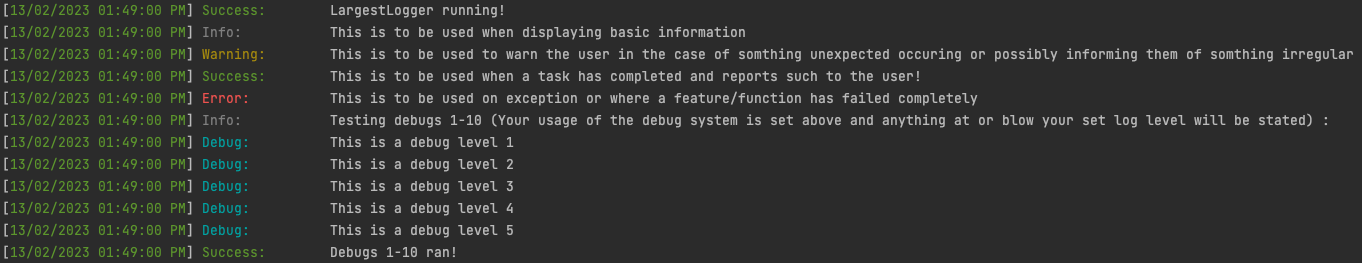
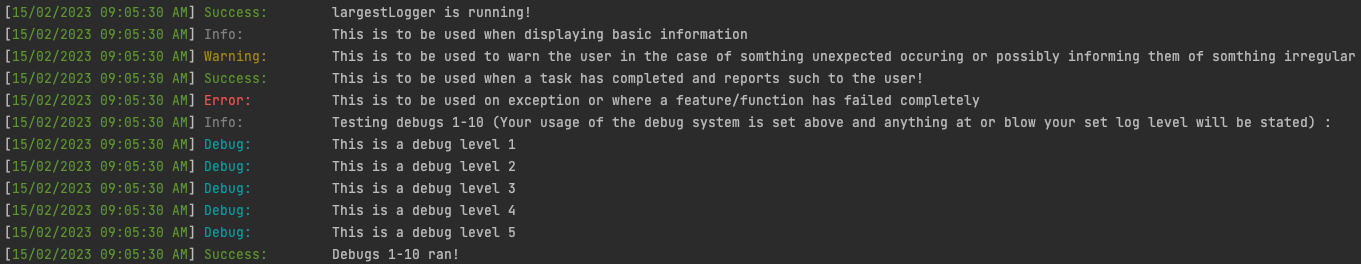
Changed to camelCase and updated PyPi link. Also added a command to easily update

diff --git a/largestLoggerPackage/largestLogger/largestLogger.py b/largestLoggerPackage/largestLogger/largestLogger.py
@@ -1,0 +1,92 @@
+#Importing all required modules/librarys
+import os, shutil, colorama
+from datetime import datetime
+from colorama import Fore, Style
+#Creating containing class
+class largestLogger:
+    #Creating variable to store the current directory where logs will be stored
+    logDir = None
+    #Creating variables to be used in the debug scope
+    debugMode = None
+    debugValue = None
+    #Function to clean up log files into a folder and name them by the time the first log was ran
+    def startUp(debugMode:bool = False, debugValue:int = 0, testingMode:bool = False):
+        #Initiates the colorama lib allowing coloured prints to run as intended
+        colorama.init()
+        #Stores the directory where the logs will be placed
+        largestLogger.logDir = os.getcwd()
+        #Stores the values to be used within the debug system
+        largestLogger.debugMode = debugMode
+        largestLogger.debugValue = debugValue
+        #If a previos log is present
+        if os.path.isfile(f"{largestLogger.logDir}/Latest.log"):
+            #Create a "Logs" folder if one isnt present
+            if not os.path.isdir(f"{largestLogger.logDir}/Logs"):
+                os.mkdir(f"{largestLogger.logDir}/Logs")
+            #Read the time the first log was ran to be placed in the name of the moved log file
+            with open('Latest.log') as Log:
+                newName = Log.read(24)
+                newName = newName.replace("[","").replace("]","").replace('/', '-').replace(':', '.')
+            #Moves the old log into the folder and naming it appropriately by the date and time the first log was ran
+            shutil.move(f"{largestLogger.logDir}/Latest.log",
+                        f"{largestLogger.logDir}/Logs/{newName}.log")
+        #If the startup was run in testing mode display an example of all possible logs
+        if testingMode:
+            largestLogger.info(f"The logging path: {largestLogger.logDir}")
+            largestLogger.info("This is an Info test!")
+            largestLogger.warning("This is an Warning test!")
+            largestLogger.success("This is an Success test!")
+            largestLogger.error("This is an Error test!")
+            #Iterates to show debug in use
+            largestLogger.info("Testing debugs 1-10:")
+            count = 1
+            while count <= 10:
+                largestLogger.debug(f"This is a debug level {count}", count)
+                count = count + 1
+            largestLogger.success("Debugs 1-10 ran!")
+        #Create a log to display the logger as ready
+        largestLogger.success("largestLogger is running!")
+    #Functions to be externally called to change the way logs are displayed and saved
+    def info(log:str):
+        largestLogger.output(0, log)
+    def warning(log:str):
+        largestLogger.output(1, log)
+    def success(log:str):
+        largestLogger.output(2, log)
+    def error(log:str):
+        largestLogger.output(3, log)
+    def debug(log:str, logLevel: int):
+        if largestLogger.debugMode:
+            if largestLogger.debugValue >= logLevel:
+                largestLogger.output(4, log)
+    #The main function all other log types call back to
+    #It parses the data and prepares a string to be saved
+    #And outputted appropriately
+    def output(logType: int, log: str):
+        #Creates variables to be used later within the logging process
+        type = None
+        typeColour = None
+        now = datetime.now()
+        stringedNow = str(now.strftime("%d/%m/%Y %I:%M:%S %p"))
+        #Depending on the passed in "LogType" a different colour and header text is set
+        match logType:
+            case 0:
+                type = "Info:          "
+                typeColour = Fore.WHITE
+            case 1:
+                type = "Warning:       "
+                typeColour = Fore.YELLOW
+            case 2:
+                type = "Success:       "
+                typeColour = Fore.GREEN
+            case 3:
+                type = "Error:         "
+                typeColour = Fore.RED
+            case 4:
+                type = "Debug:         "
+                typeColour = Fore.CYAN
+        #Output the text generated into a "Latest.log" file
+        with open(f"{largestLogger.logDir}/Latest.log", "a+", encoding="utf-8") as LogFile:
+            LogFile.writelines(f"[{stringedNow}] {type} {log}\n")
+        #Output the log into the console with correct formatting and colours
+        print(f"[{Fore.GREEN}{stringedNow}{Style.RESET_ALL}] {typeColour}{type}{Style.RESET_ALL} {log}")

diff --git a/LargestLoggerExamples/exampleUsage.py b/LargestLoggerExamples/exampleUsage.py
@@ -1,0 +1,31 @@
+#After installing the lib this is how you can bring it into
+#the scope of a file/script
+from LargestLogger import largestLogger
+
+#This line is needed in any script that uses this lib,
+#it should only be ran once and just prepares the logger,
+#colorama and cleans it's surrounding directory
+#Entering no extra args disables debugs entirely!
+#largestLogger.startUp
+
+#This allows debug prints to execute upto level 5
+#The depth/complexity of the log levels are set by you
+#and your script/program!
+largestLogger.startUp(debugMode=True, debugValue=5)
+
+#Passing in True launches it in testing mode, this just displays
+#all possible prints/logs the program executes
+#largestLogger.startUp(testingMode=True)
+
+#Just some examples of the logging code being used
+largestLogger.info("This is to be used when displaying basic information")
+largestLogger.warning("This is to be used to warn the user in the case of somthing unexpected occuring or possibly informing them of somthing irregular")
+largestLogger.success("This is to be used when a task has completed and reports such to the user!")
+largestLogger.error("This is to be used on exception or where a feature/function has failed completely")
+#Iterates to show debug in use
+largestLogger.info("Testing debugs 1-10 (Your usage of the debug system is set above and anything at or blow your set log level will be stated) :")
+count = 1
+while count <= 10:
+    largestLogger.debug(f"This is a debug level {count}", count)
+    count = count + 1
+largestLogger.success("Debugs 1-10 ran!")

diff --git a/largestLoggerPackage/setup.py b/largestLoggerPackage/setup.py
@@ -1,0 +1,11 @@
+#Importing the library used to setup the package via a pip install
+import setuptools
+#Just the simple data about the library
+setuptools.setup(
+    name="largestLogger",
+    version="1.1.0",
+    author="LargestBoi",
+    description="A simple, open source logging library. It can be easily added to a program and provides a colourful, reliable and managed logging system to your application/script! https://github.com/LargestBoi/largestLogger",
+    packages=["largestLogger"],
+    install_requires=['datetime', 'colorama'],
+)

diff --git a/largestLoggerPackage/largestLogger/__init__.py b/largestLoggerPackage/largestLogger/__init__.py
@@ -1,2 +1,2 @@
 #A simple initiatior file for the library
-from .LargestLogger import LargestLogger
+from .largestLogger import largestLogger

diff --git a/README.md b/README.md
@@ -3,8 +3,9 @@ A simple, open source logging library. It can be easily added to a program and p
 reliable and managed logging system to your application/script!
 
 # Installing via pip/PyPi
-Just run ``pip install LargestLogger`` and you have the logging library installed!
-[Here](https://pypi.org/project/LargestLogger/1.0.0/) is the link to the PyPi page of the library!
+Just run ``pip install largestLogger`` and you have the logging library installed!
+Running ``pip install --upgrade largestLogger`` will update the package!
+[Here](https://pypi.org/project/largestLogger) is the link to the PyPi page of the library!
 
 # Installing from source
 Enter the "LargestLoggerPackage" directory.
